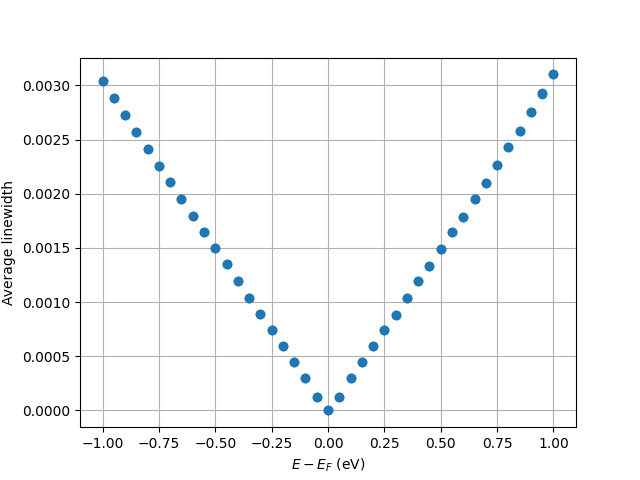
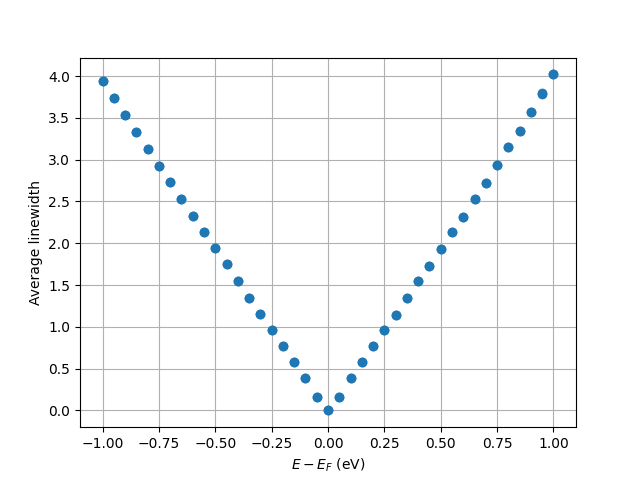
multiply by Supercell Size (in example), fix bugs

diff --git a/fermigrator/skew.py b/fermigrator/skew.py
@@ -1,6 +1,7 @@
 import numpy as np
 from wannierberri.utility import cached_einsum
 
+
 def get_skew_Efermi(contours_db, EF):
     """Compute quasiparticle skew scattering on the Fermi surface via Fermi's golden rule.
 
@@ -9,9 +10,9 @@ def get_skew_Efermi(contours_db, EF):
         Γ(ib1, k) = Σ_{ib2, ib3, k',k''} V_{ib1,ib2}(k, k') V_{ib2,ib3}(k', k'') V_{ib3,ib1}(k'', k) w(k') w(k'')
 
     where the sum over k' and k'' runs over all Fermi surface points of all bands at the same Fermi level and w(k') are the contour integration weights
-    (proportional to the segment length / |∇E|, approximating the delta function δ(E_k' - E_F)).  The pre-computed Vkk files (band matrix elements of the scattering matrix on the contour) are read from `contours_db`.    
+    (proportional to the segment length / |∇E|, approximating the delta function δ(E_k' - E_F)).  The pre-computed Vkk files (band matrix elements of the scattering matrix on the contour) are read from `contours_db`.
 
-    
+
     Parameters
     ----------
     contours_db : ContourDatabase
@@ -42,10 +43,10 @@ def get_skew_Efermi(contours_db, EF):
                     typ="Vkk", ib1=ib2, ib2=ib3, EF=EF, none_if_missing=False)["Vkk"]
                 Vkk_31 = contours_db.get_data(
                     typ="Vkk", ib1=ib3, ib2=ib, EF=EF, none_if_missing=False)["Vkk"]
-                skew = cached_einsum('kq,q,qp,p,pk->k', Vkk12, w2, Vkk_23, w3, Vkk_31).real
+                skew = cached_einsum('kq,q,qp,p,pk->k', Vkk12, w2, Vkk_23, w3, Vkk_31).imag
                 print(f"Skew for ib1={ib}, ib2={ib2} and Efermi={EF} has min {skew.min()} and max {skew.max()}")
                 contours_db.set_data("skew", dict(skew=skew, kpoints=contour1["kpoints"], weights=contour1["weights"]),
-                                 ib1=ib, ib2=ib2, ib3=ib3, EF=EF)
+                                     ib1=ib, ib2=ib2, ib3=ib3, EF=EF)
                 skew_dict[ib] += skew
     return skew_dict
 
@@ -54,28 +55,22 @@ def get_skew_multipole_Efermi(contours_db, EF):
     """
     same as get_skew_Efermi but using the multipole expansion of the scattering matrix
     """
-    
+
     skew_dict = {}
     files_contour = contours_db.get_files_Efermi("contour", EF)
     files_vertices = contours_db.get_files_Efermi("multipole-vertex", EF)
+    vert = np.sum([np.load(vertex2_file)["vertex"] for vertex2_file in files_vertices], axis=0)
+    vert = vert @ vert
     for file_contour in files_contour:
         ib = contours_db.split_filename(file_contour)["ib"]
+        # print ("loading contour and projector...")
         contour = np.load(file_contour)
-        skew_dict[ib] = np.zeros(
-            contour["kpoints"].shape[0], dtype=float)
-        vertex_file = contours_db.get_data(
-            typ="multipole-vertex", ib=ib, EF=EF)
-        projector = vertex_file["projector"]
-        for vertex2_file in files_vertices:
-            jb = contours_db.split_filename(vertex2_file)["ib"]
-            vertex2 = np.load(vertex2_file)["vertex"]
-            print(f"{vertex2.shape=}, {projector.shape=}")
-            for vertex3_file in files_vertices:
-                lb = contours_db.split_filename(vertex3_file)["ib"]
-                vertex3 = np.load(vertex3_file)["vertex"]
-                print(f"{vertex3.shape=}, {projector.shape=}")
-                skew = cached_einsum('klm, mn, nl -> k', projector, vertex2, vertex3)
-                skew_dict[ib] += np.real(skew)
-            contours_db.set_data("skew-multipole", dict(linewidth=skew, kpoints=contour["kpoints"], weights=contour["weights"]),
-                                 ib=ib, ib2=jb, ib3=lb, EF=EF)
+        proj_file = contours_db.get_data(typ="multipole-projector", ib=ib, EF=EF)
+        projector = proj_file["projector"]
+
+        skew = np.sum(projector * vert[None, :, :], axis=(1, 2)).imag
+        # print ('einsum done')
+        skew_dict[ib] = skew
+        contours_db.set_data("skew-multipole", dict(skew=skew, kpoints=contour["kpoints"], weights=contour["weights"]),
+                             ib=ib, EF=EF)
     return skew_dict

diff --git a/examples/graphene_dft/2.scatter_contours.py b/examples/graphene_dft/2.scatter_contours.py
@@ -13,8 +13,9 @@ for k in ["fermi", "cell", "nspin", "wannier_centres"]:
 
 # in the archive, spin is a slow index, but in the system it is a fast index
 reorder = [0, 2, 1, 3]
-Vkk = elements["V_total"][:, :, reorder, :][:, :, :, reorder] * Hartree
-Vkk[:]=1
+N_supercell = 36
+
+Vkk = elements["V_total"][:, :, reorder, :][:, :, :, reorder] * Hartree * N_supercell
 db = ContourDatabase.read("contours")
 system = db.system
 print(f"System has {system.num_wann} wannier functions with centers at {system.wannier_centers_red} in reduced coordinates and real lattice vectors {system.real_lattice}")
@@ -30,7 +31,6 @@ print(f"iR0: {iR0}\n R0: {scatter.rvec.iRvec[iR0]}")
 print(f"scatter iRvec shape: {scatter.rvec.iRvec.shape}")
 print(f"scatter for R=R'=0: (real part)\n{scatter.Vrrab[iR0, iR0].real}")
 print(f"scatter for R=R'=0: (imaginary part)\n{scatter.Vrrab[iR0, iR0].imag}")
-exit()
 
 scatter.get_Vkk_on_contours_all(contours_db=db)
 

diff --git a/fermigrator/linewidth.py b/fermigrator/linewidth.py
@@ -125,9 +125,9 @@ def get_linewidth_multipole_Efermi(contours_db, EF):
         contour = np.load(file_contour)
         linewidths_dict[ib] = np.zeros(
             contour["kpoints"].shape[0], dtype=float)
-        vertex_file = contours_db.get_data(
-            typ="multipole-vertex", ib=ib, EF=EF)
-        projector = vertex_file["projector"]
+        projector_file = contours_db.get_data(
+            typ="multipole-projector", ib=ib, EF=EF)
+        projector = projector_file["projector"]
         for vertex2_file in files_vertices:
             jb = contours_db.split_filename(vertex2_file)["ib"]
             vertex2 = np.load(vertex2_file)["vertex"]

diff --git a/fermigrator/scattering_matrix.py b/fermigrator/scattering_matrix.py
@@ -299,8 +299,8 @@ class ScatteringMatrix:
         if contours_db is not None:
             ib = contours_db.split_filename(file)["ib"]
             EF = contours_db.split_filename(file)["EF"]
-            contours_db.set_data("multipole-vertex", dict(vertex=vertex, projector=projector, kpoints=kpoints),
-                                 ib=ib, EF=EF)
+            contours_db.set_data("multipole-vertex", dict(vertex=vertex), ib=ib, EF=EF)
+            contours_db.set_data("multipole-projector", dict(projector=projector, kpoints=kpoints), ib=ib, EF=EF)
         return vertex, projector
 
     def get_multipole_on_contours_all(self, contours_db, Efermi_list=None):

diff --git a/examples/graphene_dft/0.system.py b/examples/graphene_dft/0.system.py
@@ -22,6 +22,8 @@ cumdos = result.results["cumdos"].data
 
 EF0 = EF[np.argmin(np.abs(cumdos - 2))]
 
+np.savez("efermi.npz", EF=EF0, cumdos=cumdos)
+
 
 plt.plot(EF, cumdos)
 plt.title(f"Cumulative DOS, EF = {EF0:.3f} eV")

diff --git a/examples/graphene_tb/5.skew.py b/examples/graphene_tb/5.skew.py
@@ -82,7 +82,7 @@ for method in ["multipole"]:
     print (f"Integral of DOS over Efermi: {dos_sum:.2f} states/unit cell")
 
     axes.plot(x, y, "o", label="Skew")
-    axes.plot(x, (dos*dos*V0**3)/8, "x", label=f"DOS^2*V0^3/8, V0={V0} eV") 
+    # axes.plot(x, (dos*dos*V0**3)/8, "x", label=f"DOS^2*V0^3/8, V0={V0} eV") 
     axes.set_xlabel(r"$E-E_F$ (eV)")
     axes.set_ylabel("Average skew")
     axes.grid()